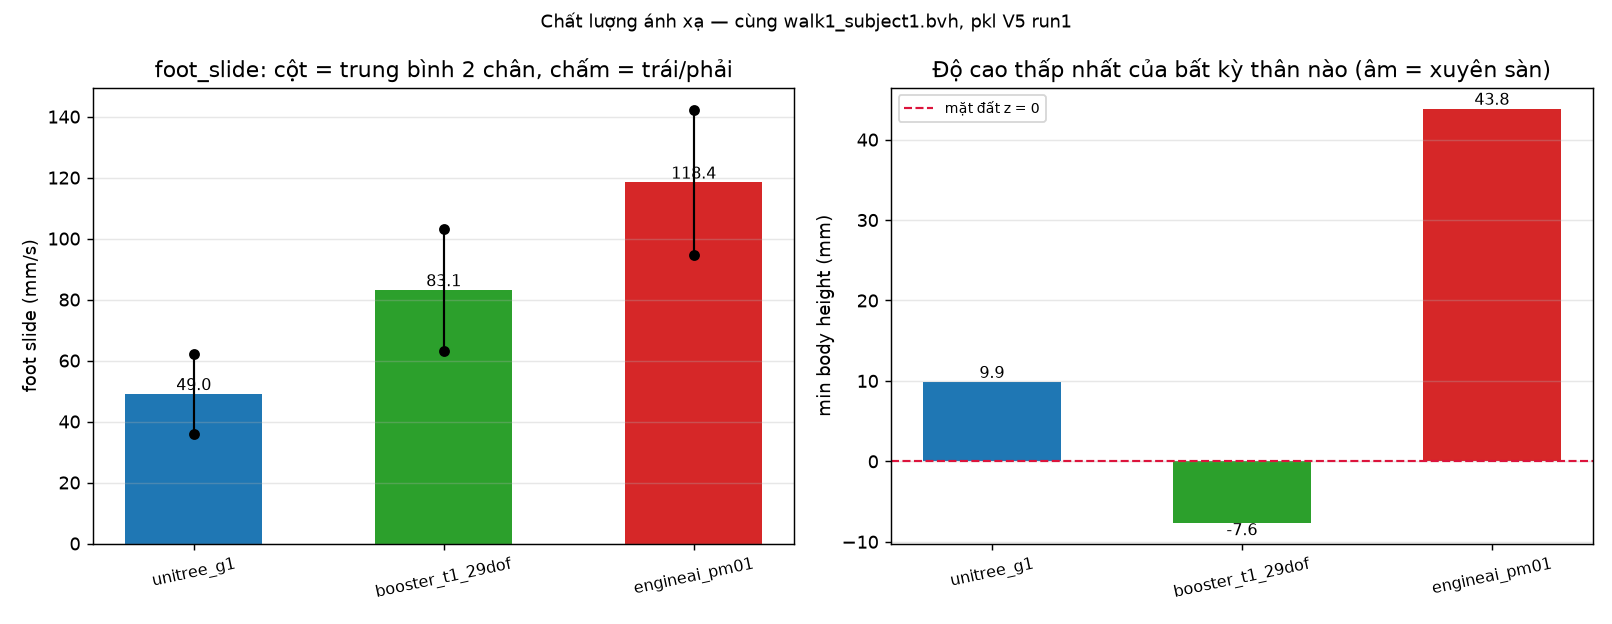
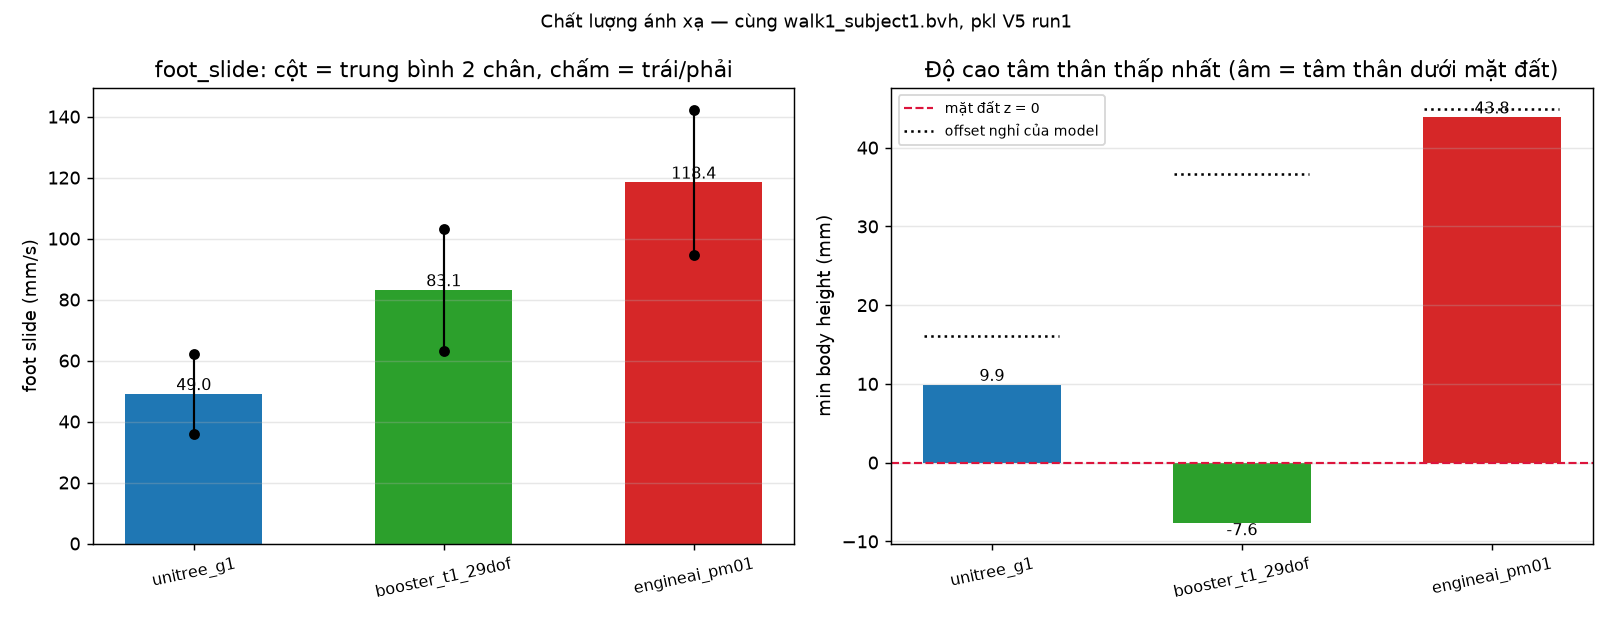
fix(RV-37/38/39): doi cot thanh joint_limit_saturation_pct, them rest_offset_mm, ghi 2 gioi han cua foot_slide, bo cau kiem chung cheo va cau PM01 sach nhat; ve lai do thi kem offset nghi

diff --git a/tools/quality_metrics.py b/tools/quality_metrics.py
@@ -8,7 +8,8 @@
 #   min_body_height_mm   : do cao thap nhat cua BAT KY than nao so voi mat dat z=0 trong ca clip.
 #                          Am = xuyen san.
 #   pct_frames_penetration: % frame co it nhat 1 than duoi mat dat (z < -1 mm).
-#   joint_limit_violation_pct: % frame co it nhat 1 khop cach qpos_lo/qpos_hi duoi 0,5 do.
+#   joint_limit_saturation_pct: % frame co it nhat 1 khop NAM TRONG 0,5 do so voi gioi han
+#                               qpos_lo/qpos_hi (bao hoa, KHONG phai vuot gioi han).
 #
 # Dung: python tools\quality_metrics.py --out results\v6_quality.csv
 import argparse
@@ -86,6 +87,11 @@ for robot in [r.strip() for r in a.robots.split(",") if r.strip()]:
     model = mj.MjModel.from_xml_path(str(ROBOT_XML_DICT[robot]))
     data = mj.MjData(model)
 
+    # offset nghi cua model: do cao tam than thap nhat khi o tu the mac dinh (qpos0)
+    data.qpos[:] = model.qpos0
+    mj.mj_forward(model, data)
+    rest_offset_mm = float(data.xpos[1:, 2].min()) * 1000.0
+
     lname, rname = FOOT_BODIES[robot]
     lid, rid = model.body(lname).id, model.body(rname).id
     lpos, rpos, min_h, pen = [], [], [], 0
@@ -108,14 +114,15 @@ for robot in [r.strip() for r in a.robots.split(",") if r.strip()]:
         "foot_slide_R": round(slide_r, 3),
         "foot_slide_mean": round(float(np.nanmean([slide_l, slide_r])), 3),
         "min_body_height_mm": round(min(min_h) * 1000.0, 3),
+        "rest_offset_mm": round(rest_offset_mm, 3),
         "pct_frames_penetration": round(100.0 * pen / len(qpos), 3),
-        "joint_limit_violation_pct": round(joint_limit_pct(qpos, model), 3),
+        "joint_limit_saturation_pct": round(joint_limit_pct(qpos, model), 3),
         "pkl": pkl_rel.replace(os.sep, "/"),
         "cmd": f"python tools/quality_metrics.py --robots {robot} --out {a.out}",
     })
     print(f"{robot:18s} slide L={slide_l:8.2f} R={slide_r:8.2f} mean={np.nanmean([slide_l, slide_r]):8.2f} mm/s | "
           f"min_z={min(min_h)*1000:8.2f} mm | pen={100.0*pen/len(qpos):6.2f}% | "
-          f"limit={rows[-1]['joint_limit_violation_pct']:6.2f}%")
+          f"limit={rows[-1]['joint_limit_saturation_pct']:6.2f}% | rest={rest_offset_mm:5.2f} mm")
 
 out = os.path.join(ROOT, a.out)
 with open(out, "w", newline="", encoding="utf-8") as f:

diff --git a/tools/quality_plot.py b/tools/quality_plot.py
@@ -33,9 +33,13 @@ heights = [float(r["min_body_height_mm"]) for r in rows]
 bars = ax.bar(labels, heights, color=colors, width=0.55)
 ax.axhline(0, color="crimson", linestyle="--", linewidth=1.2, label="mặt đất z = 0")
 for i, h in enumerate(heights):
+    rest = float(rows[i]["rest_offset_mm"])
+    ax.plot([i - 0.27, i + 0.27], [rest, rest], color="black", linewidth=1.4, linestyle=":",
+            zorder=4)
     ax.annotate(f"{h:.1f}", (i, h), ha="center", va="bottom" if h >= 0 else "top", fontsize=9)
+ax.plot([], [], color="black", linestyle=":", linewidth=1.4, label="offset nghỉ của model")
 ax.set_ylabel("min body height (mm)")
-ax.set_title("Độ cao thấp nhất của bất kỳ thân nào (âm = xuyên sàn)")
+ax.set_title("Độ cao tâm thân thấp nhất (âm = tâm thân dưới mặt đất)")
 ax.legend(fontsize=8)
 ax.grid(axis="y", alpha=0.3)
 

diff --git a/logs/nhat_ky_cai_dat.md b/logs/nhat_ky_cai_dat.md
@@ -237,22 +237,26 @@ Số thô: `results/v6_noise_sweep.csv` (thêm 2 cột bão hòa + `max_dev_fram
 
 Đề tài HR-04 yêu cầu đo **tốc độ và chất lượng** ánh xạ. Mục trên đã có tốc độ; mục này đo chất lượng trên **pkl đã có của V5** (`v5_<robot>_walk1_subject1_run1.pkl`), **không chạy lại retarget**. Công cụ: `tools/quality_metrics.py`; số thô: `results/v6_quality.csv`; đồ thị: `results/figures/v6_quality.png`.
 
-**Định nghĩa (đúng đặc tả Planner):**
-1. `foot_slide_L/R/mean` (mm/s) — frame **tiếp đất** của một bàn chân = độ cao thân bàn chân trong **30 mm** so với chính mức thấp nhất của nó trong clip; tổng dịch ngang (xy) giữa các **cặp frame liên tiếp cùng tiếp đất** chia tổng thời gian tiếp đất; tính riêng trái/phải rồi lấy trung bình.
-2. `min_body_height_mm` (mm) — độ cao thấp nhất của **bất kỳ thân nào** so với mặt đất `z = 0` trong cả clip; **âm = xuyên sàn**.
-3. `pct_frames_penetration` (%) — % frame có **ít nhất 1 thân** dưới mặt đất (`z < −1 mm`).
-4. `joint_limit_violation_pct` (%) — % frame có **ít nhất 1 khớp** cách `qpos_lo/qpos_hi` dưới **0,5°** (dùng lại công cụ V6).
+**Định nghĩa (đặc tả Planner, đã sửa theo RV-37/38/39):**
+1. `foot_slide_L/R/mean` (mm/s) — frame **tiếp đất** của một bàn chân = độ cao **tâm thân** bàn chân trong **30 mm** so với chính mức thấp nhất của nó trong clip; tổng dịch ngang (xy) giữa các **cặp frame liên tiếp cùng tiếp đất** chia tổng thời gian tiếp đất; tính riêng trái/phải rồi lấy trung bình. **Đây là chỉ số PROXY, chỉ dùng để SO SÁNH TƯƠNG ĐỐI giữa 3 robot** (xem 2 giới hạn bên dưới).
+2. `min_body_height_mm` (mm) — độ cao **tâm thân (body origin) thấp nhất** trong cả clip so với `z = 0`; vì đo ở tâm thân nên mỗi model có **offset nghỉ** riêng, ghi ở cột `rest_offset_mm`.
+3. `pct_frames_penetration` (%) — % frame có **ít nhất 1 thân** dưới mặt đất (`z < −1 mm`). **Đây là cột duy nhất dùng để kết luận xuyên sàn.**
+4. `joint_limit_saturation_pct` (%) — % frame có **ít nhất 1 khớp NẰM TRONG 0,5° so với giới hạn** `qpos_lo/qpos_hi`, tức **bão hòa ở giới hạn**, **KHÔNG phải vượt giới hạn**.
 
-| Robot | n frame | slide L / R (mm/s) | slide mean | min_body_height (mm) | % frame xuyên sàn | % frame chạm giới hạn khớp |
-|---|---|---|---|---|---|---|
-| `unitree_g1` | 7.839 | 62,11 / 35,97 | **49,04** | **+9,89** | **0,00** | 23,79 |
-| `booster_t1_29dof` | 7.839 | 63,19 / 103,05 | **83,12** | **−7,64** | **2,13** | 43,32 |
-| `engineai_pm01` | 7.839 | 94,53 / 142,29 | **118,41** | +43,85 | 0,00 | 24,07 |
+| Robot | n frame | slide L / R (mm/s) | slide mean | min_body_height (mm) | rest_offset (mm) | % frame xuyên sàn | % frame bão hòa khớp |
+|---|---|---|---|---|---|---|---|
+| `unitree_g1` | 7.839 | 62,11 / 35,97 | **49,04** | +9,89 | +16,14 | **0,00** | 23,79 |
+| `booster_t1_29dof` | 7.839 | 63,19 / 103,05 | **83,12** | −7,64 | +36,65 | **2,13** | 43,32 |
+| `engineai_pm01` | 7.839 | 94,53 / 142,29 | **118,41** | +43,85 | +44,95 | **0,00** | 24,07 |
 
-**Đọc số:**
-- **G1 sạch nhất**: không có frame nào xuyên sàn, thân thấp nhất vẫn cao +9,9 mm, foot slide 49,0 mm/s.
-- **T1 29dof xuyên sàn**: thân thấp nhất **−7,64 mm**, 2,13 % số frame (≈ 167 frame) có thân dưới mặt đất — cùng robot này cũng có CV thời gian cao nhất (11,32 %) và tỉ lệ chạm giới hạn khớp cao nhất (43,3 %).
-- **PM01 trượt chân nhiều nhất**: 118,4 mm/s (chân phải 142,3 mm/s), gấp ~2,4× G1; đổi lại không xuyên sàn và thân thấp nhất +43,9 mm.
-- Kiểm chứng chéo: `joint_limit_violation_pct` của G1 = **23,79 %** đúng bằng baseline V6 (1.865/7.839 = 23,8 %) → hai công cụ dùng cùng định nghĩa.
+**Đọc số (đã bỏ các suy diễn sai):**
+- **Xuyên sàn chỉ đọc theo `pct_frames_penetration`:** T1 29dof **2,13 %** (≈ 167 frame; frame 3897 có `left_toe_link` xuống −7,64 mm), G1 và PM01 **0 %**.
+- `min_body_height_mm` **không** dùng để xếp hạng "sạch": G1 +9,89 / T1 −7,64 / PM01 +43,85 mm nhưng offset nghỉ lần lượt +16,14 / +36,65 / +44,95 mm → PM01 cao "hơn" chủ yếu vì **tâm thân bàn chân của model nằm cao hơn**, không phải vì ánh xạ tốt hơn. Muốn so mức tụt so với tư thế nghỉ thì trừ `rest_offset_mm`.
+- `foot_slide_mean`: PM01 **118,4** > T1 **83,1** > G1 **49,0** mm/s — chỉ nói **tương đối** giữa 3 robot, không phải mm/s tuyệt đối của bàn chân thật (xem giới hạn bên dưới).
+
+**Hai giới hạn của `foot_slide` (RV-38):**
+- "Tiếp đất" định nghĩa theo **mức thấp nhất của chính bàn chân đó** (không phải `z = 0`): nếu dùng ngưỡng tuyệt đối `z ≤ 30 mm` thì **G1 và PM01 không có frame tiếp đất nào** → không đo được.
+- Đo ở **tâm thân bàn chân**, nên khi bàn chân lăn gót–mũi tâm thân vẫn dịch ngang và bị tính là trượt. Reviewer đo lại tại **ngón chân**: G1 **84,3** thay vì 49,0; T1 **169,2** thay vì 83,1.
+- Việc **không trừ vị trí root** là đúng theo đặc tả, giữ nguyên.
 
 **Ngưỡng đạt:** `docs/dinh_nghia_phep_do.md` hiện **chưa đặt ngưỡng** cho 4 chỉ số này, nên mục này chỉ **báo số thô**, không kết luận đạt/không đạt. Nếu cần ngưỡng, phải chốt trong `dinh_nghia_phep_do.md` trước rồi mới đối chiếu.

diff --git a/tools/README.md b/tools/README.md
@@ -63,15 +63,20 @@ Chạy bổ sung cho một robot có CV > 5 %: `-Warmup 0 -Measured 2 -StartInde
 | `quality_metrics.py` | Tính 4 chỉ số chất lượng trên pkl đã có (**không chạy lại retarget**) | `python tools\quality_metrics.py --out results\v6_quality.csv` |
 | `quality_plot.py` | Vẽ 2 panel: `foot_slide` theo robot (cột = trung bình 2 chân, chấm = trái/phải) và `min_body_height` theo robot (có đường 0) | `python tools\quality_plot.py` |
 
-**Định nghĩa từng chỉ số** (nguồn: đặc tả của Planner, 2026-11-21):
+**Định nghĩa từng chỉ số** (nguồn: đặc tả của Planner, 2026-11-21; đã sửa theo RV-37/38/39):
 
 1. **`foot_slide_L` / `foot_slide_R` / `foot_slide_mean`** (mm/s)
-   Với mỗi bàn chân: một frame là **tiếp đất** khi độ cao thân bàn chân nằm trong **30 mm** so với chính mức thấp nhất của nó trong cả clip.
+   Với mỗi bàn chân: một frame là **tiếp đất** khi độ cao **tâm thân** bàn chân nằm trong **30 mm** so với chính mức thấp nhất của nó trong cả clip.
    Tổng dịch ngang (mặt phẳng xy) giữa các **cặp frame liên tiếp cùng tiếp đất** chia cho tổng thời gian tiếp đất → mm/s.
    Tính riêng chân trái, chân phải; `mean` là trung bình hai chân.
-2. **`min_body_height_mm`** (mm) — độ cao **thấp nhất của bất kỳ thân (body) nào** so với mặt đất `z = 0` trong toàn clip. **Âm nghĩa là xuyên sàn**.
-3. **`pct_frames_penetration`** (%) — phần trăm frame có **ít nhất 1 thân** dưới mặt đất (`z < -1 mm`).
-4. **`joint_limit_violation_pct`** (%) — phần trăm frame có **ít nhất 1 khớp** cách giới hạn `qpos_lo`/`qpos_hi` dưới **0,5°** (dùng lại đúng công cụ của V6).
+   ⚠ **Đây là chỉ số PROXY, chỉ dùng để SO SÁNH TƯƠNG ĐỐI giữa 3 robot**, vì hai lý do:
+   (a) "tiếp đất" được định nghĩa theo **mức thấp nhất của chính bàn chân đó** (không phải mặt phẳng `z = 0`), nên nếu dùng ngưỡng tuyệt đối `z ≤ 30 mm` thì G1 và PM01 **không có frame tiếp đất nào**;
+   (b) đo tại **tâm thân bàn chân**, nên khi bàn chân lăn gót–mũi thì tâm thân vẫn dịch ngang → số đo cao hơn thực tế (Reviewer đo tại ngón chân: G1 84,3 thay vì 49,0; T1 169,2 thay vì 83,1).
+   Việc **không trừ vị trí root** là đúng (giữ nguyên theo đặc tả).
+2. **`min_body_height_mm`** (mm) — độ cao **tâm thân (body origin) thấp nhất** trong toàn clip, so với mặt đất `z = 0`.
+   Vì đo ở tâm thân nên **mỗi model có một offset nghỉ khác nhau** — cột `rest_offset_mm` ghi offset đó (đo ở tư thế mặc định `qpos0`): G1 **+16,14**, T1 29dof **+36,65**, PM01 **+44,95 mm**. Muốn so "thấp hơn vị trí nghỉ bao nhiêu" thì phải trừ `rest_offset_mm`.
+3. **`pct_frames_penetration`** (%) — phần trăm frame có **ít nhất 1 thân** dưới mặt đất (`z < -1 mm`). **Đây là cột duy nhất dùng để kết luận xuyên sàn.**
+4. **`joint_limit_saturation_pct`** (%) — phần trăm frame có **ít nhất 1 khớp NẰM TRONG 0,5° so với giới hạn** `qpos_lo`/`qpos_hi`, tức **bão hòa ở giới hạn**, **KHÔNG phải vượt giới hạn**.
 
 Thân bàn chân dùng để đo: `unitree_g1` → `left_ankle_roll_link`/`right_ankle_roll_link`; `booster_t1_29dof` → `left_foot_link`/`right_foot_link`; `engineai_pm01` → `LINK_FOOT_L`/`LINK_FOOT_R`; `unitree_h1_2` → `left_ankle_roll_link`/`right_ankle_roll_link`.
 

diff --git a/results/figures/README.md b/results/figures/README.md
@@ -33,7 +33,7 @@ Người chụp/thực hiện: **Đặng Duy Mạnh (Run)**.
 | `v5_ms_per_frame_robots_2026-11-20.png` | ms/frame theo robot cho V5 sim2sim, áp quy tắc §4: **mean** nếu CV ≤ 5 % (PM01 **34,97**, G1 **16,76**), **median** nếu CV > 5 % (T1 29dof **13,03**); thanh sai số = min–max — **slide "sim2sim"** | `python tools/plot_v3.py` (đọc `results/v5_sim2sim.csv`) | 2026-11-21 |
 | `v6_noise_vs_deviation.png` | V6: 3 panel — `dq_mean`, `pct_frames_gt5deg`, `n_saturated_frames` (số frame có ≥1 khớp chạm giới hạn ±0,5°, có đường baseline 1865 frame) theo 15 mức nhiễu của 4 phép thử N1–N4 — **slide "độ bền theo nhiễu"** | `python tools/v6_plot.py` (đọc `results/v6_noise_sweep.csv`) | 2026-11-21 |
 | `v6_noise_slide.png` | **Bản 16:9 riêng cho slide/video** (2000×1125): 3 panel **xếp dọc**, chữ ≥ 18 pt, nhóm N1–N4 ghi phía trên panel 1, legend 1 hàng ở đáy, có đường baseline 1865 frame — cùng số liệu với hình trên, chỉ vẽ lại cho dễ đọc trên video | `python tools/v6_plot_slide.py` (đọc `results/v6_noise_sweep.csv`) | 2026-11-21 |
-| `v6_quality.png` | **Chất lượng ánh xạ**: panel trái `foot_slide` theo robot (cột = trung bình 2 chân, chấm = trái/phải), panel phải `min_body_height` theo robot kèm đường mặt đất z = 0 (T1 29dof = **−7,6 mm**, tức xuyên sàn) — **slide "chất lượng"** | `python tools/quality_plot.py` (đọc `results/v6_quality.csv`) | 2026-11-21 |
+| `v6_quality.png` | **Chất lượng ánh xạ**: panel trái `foot_slide` theo robot (cột = trung bình 2 chân, chấm = trái/phải — **chỉ so sánh tương đối**), panel phải độ cao **tâm thân** thấp nhất theo robot kèm đường mặt đất z = 0; kết luận xuyên sàn đọc ở cột `pct_frames_penetration` (T1 29dof 2,13 %, G1 và PM01 0 %) — **slide "chất lượng"** | `python tools/quality_plot.py` (đọc `results/v6_quality.csv`) | 2026-11-21 |
 
 ## 4. Ảnh mở file CSV kết quả
 

diff --git a/results/README.md b/results/README.md
@@ -6,4 +6,4 @@ CSV/PNG do tab `gmr-lab` sinh ra. Không sửa tay số liệu trong này.
 |---|---|
 | `v3_runtime.csv` | Thời gian retarget G1 trên `walk1_subject1.bvh` bằng `bvh_to_robot.py` **không** `--rate_limit`: 1 warm-up + 5 lần đo (cột `ms_per_frame_process` = wall-clock cả tiến trình / số frame) |
 | `v5_sim2sim.csv` | Cùng 1 motion → nhiều robot, mức tụt chất lượng (thời gian chạy mỗi lần) |
-| `v6_quality.csv` | 4 chỉ số **chất lượng ánh xạ** trên pkl V5 (foot slide, độ cao thân thấp nhất, % frame xuyên sàn, % frame chạm giới hạn khớp) |
+| `v6_quality.csv` | 4 chỉ số **chất lượng ánh xạ** trên pkl V5 (foot slide, độ cao tâm thân thấp nhất + offset nghỉ, % frame xuyên sàn, % frame bão hòa khớp) |
